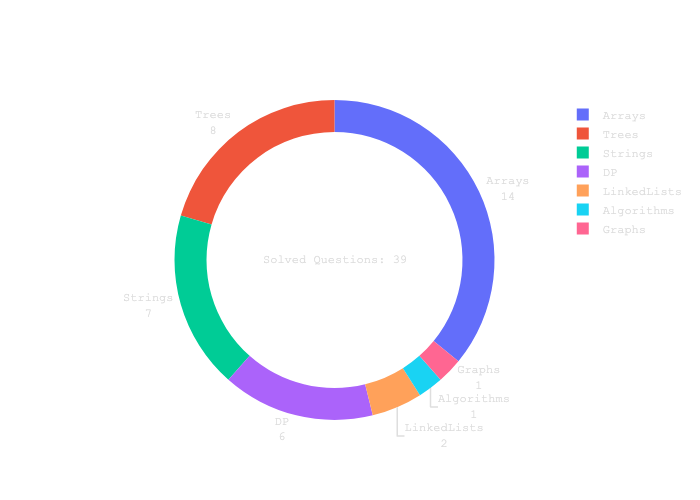
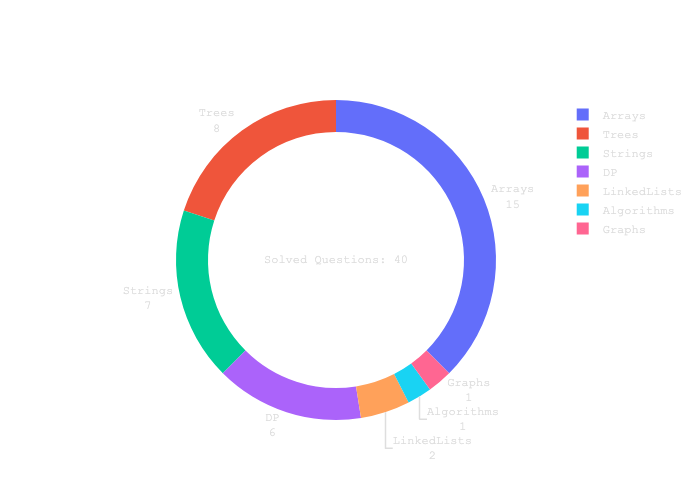
binary matrix search

diff --git a/Arrays/matrixSearch.py b/Arrays/matrixSearch.py
@@ -1,0 +1,41 @@
+from typing import List
+
+
+def matrixSearch(matrix: List[List[int]], target: int) -> bool:
+    # Binary search the row then the cols since they are each sorted
+    def bSearchRows() -> int:
+        l, r = 0, len(matrix) - 1
+        while l <= r:
+            midpoint = l + (r - l) // 2
+            if matrix[midpoint][0] <= target <= matrix[midpoint][-1]:
+                return midpoint
+            elif matrix[midpoint][0] > target:
+                r = midpoint - 1
+            else:
+                l = midpoint + 1
+        return -1
+
+    def bSearch(nums: List[int]) -> int:
+        l, r = 0, len(nums) - 1
+        while l <= r:
+            midpoint = l + (r - l) // 2
+            if nums[midpoint] == target:
+                return midpoint
+            if nums[midpoint] < target:
+                l = midpoint + 1
+            else:
+                r = midpoint - 1
+        return -1
+
+    row = bSearchRows()
+    if row == -1:
+        return False
+    col = bSearch(matrix[row])
+    return col != -1
+
+
+#
+# print(matrixSearch([[1, 3, 5, 7], [10, 11, 16, 20], [23, 30, 34, 60]], 0))
+# print(matrixSearch([[1, 3, 5, 7], [10, 11, 16, 20], [23, 30, 34, 60]], 3))
+# print(matrixSearch([[1, 3]], 3))
+print(matrixSearch([[1, 3, 5, 7], [10, 11, 16, 20], [23, 30, 34, 50]], 11))
